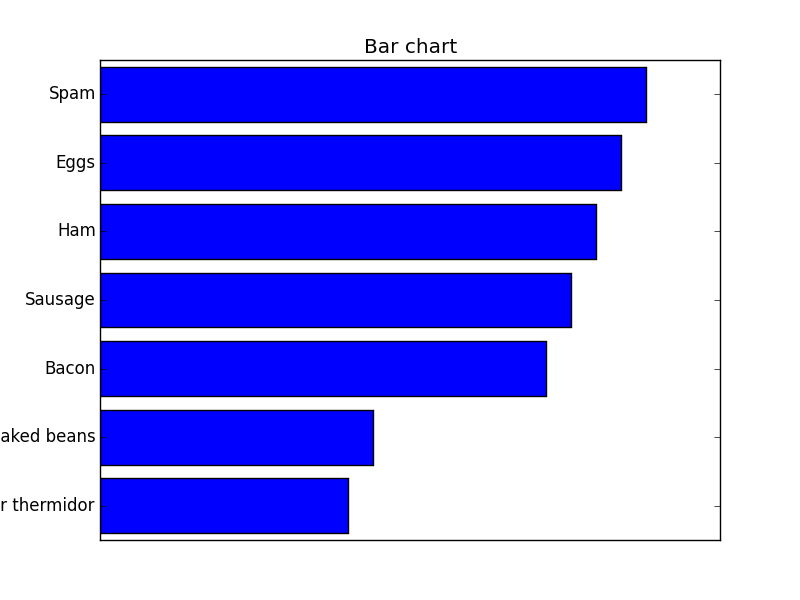
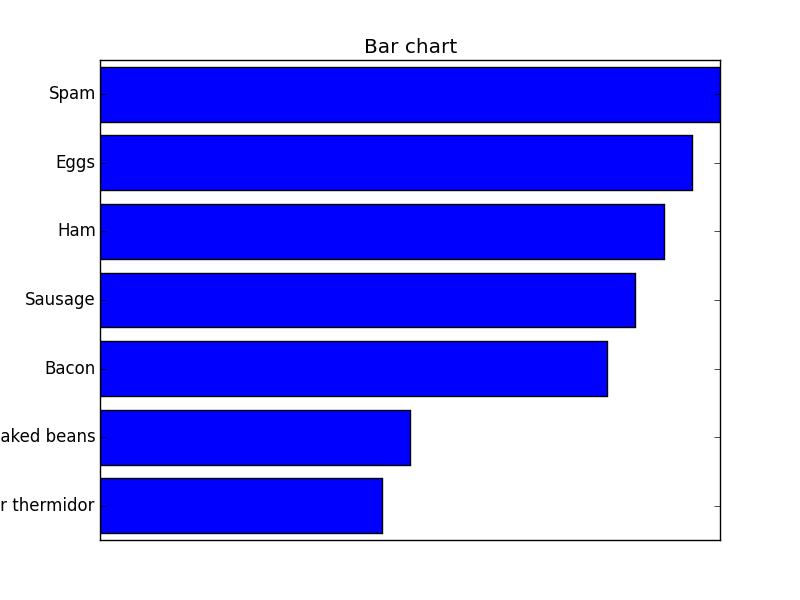
Made some of Jarvis edits to Data Visualization

Changed region(s): [[0.6562, 0.09, 0.9062, 0.69], [0.4062, 0.66, 0.5312, 0.9]]

diff --git a/Labs/ScientificVisualization/DataVisualization.tex b/Labs/ScientificVisualization/DataVisualization.tex
@@ -16,13 +16,13 @@ extract value from it.} \small{---Hal Varian (Google's Chief Economist)}
 
 
 
-\section*{What is data visualization?} 
+\section*{What is Data Visualization?} 
 Data visualizations (or graphs) are used to understand and explore data as well as communicate results to others.  Often data is more easily interpreted or understood in graphical format than as a list of numbers or data points.  
 
 
 
 
-\section*{Types of visualizations}
+\section*{Types of Visualizations}
 
 Here are some of the most useful types of data visualizations.  We explain each of these in more detail below.
 
@@ -713,11 +713,11 @@ The first step in creating a graphic to do this is to choose the right type of v
 As we saw in the section ``Types of Visualizations,'' there are many possibilities, each with different strengths. 
 You should carefully consider which one best suits your data set and communication needs.  Your goal should always be communicating as clearly, effectively, and accurately as possible.  
 
-\subsubsection*{Visualizations to avoid}
+\subsubsection*{Visualizations to Avoid: Pie Charts, Radar Charts, and Stacked Bar Charts}
 There are also several popular types of visualizations that you should generally \textbf{not} use.  These may look pretty, but they tend to obscure information or cause confusion because of natural difficulties humans have in interpreting them.
 
 For example, people have much more difficulty judging changes and variation in area than they do in length.  
-As a result, charts that depend on distinguishing variation in area will be less effective.  One of the most common charts that has this problem is the pie chart. Figure \ref{fig:pievsbar} indicates the difficulty in judging the difference in area between the lobster and bean slices.
+As a result, charts that depend on distinguishing variation in area will be less effective and easily misunderstood.  One of the most common charts that has this problem is the pie chart. Figure \ref{fig:pievsbar} indicates the difficulty in judging the difference in area between the lobster and bean slices.
 
 \begin{figure}
 \centering
@@ -729,26 +729,15 @@ As a result, charts that depend on distinguishing variation in area will be less
 \centering
 \includegraphics[width=\textwidth]{bar_chart_horizontal_sorted.png}
 \end{subfigure}
-\caption{A pie chart on the left that has been transformed into a bar chart on the right}
+\caption{A pie chart on the left that has been improved by a transformation into a bar chart on the right}
 \label{fig:pievsbar}
 \end{figure}
 
 
-As bad as the pie chart may be, there is a way to make things worse---make the chart three-dimensional.  It seems to be very popular for people to convert a visualization that is naturally 2 or 1 dimensional into one that is artificially three dimensional, but this inevitably makes things more confusing.  For example, we already have difficulty distinguishing the variation in area in a pie chart, and when we add a third dimension, it becomes even harder (see Figure \ref{fig:pie3d}.
-
-\begin{figure}
-\centering
-\begin{subfigure}{.45\textwidth}
-\centering
-\includegraphics[width=\textwidth]{pie_chart3d.png}
-\end{subfigure}
-\caption{A 3-D pie chart}
-\label{fig:pie3d}
-\end{figure}
+As bad as the pie chart may be, there is a way to make things worse---make the chart three-dimensional.  It seems to be very popular for people to convert a visualization that is naturally 2 or 1 dimensional into one that is artificially three dimensional, but this inevitably makes things more confusing.  For example, we already have difficulty distinguishing the variation in area in a pie chart, and when we add a third dimension, it becomes even harder to distinguish variation in volume.
 
 
-
-Other visualization types that tend to be confusing and ineffective include the stacked bar and the radar graph.  The radar graph is just generally confusing. One problem with stacking bars is that the second bar is not based at zero, so it becomes difficult to compare the different parts, as in Figure \ref{fig:stacked}
+Other visualization types that tend to be confusing and ineffective include the stacked bar and the radar graph.  The radar graph is just generally confusing. The main problem with stacking bars is that the second bar is not based at zero, so it becomes difficult to compare the different parts, as in Figure \ref{fig:stacked}
 
 \begin{figure}
 \centering
@@ -764,9 +753,6 @@ Other visualization types that tend to be confusing and ineffective include the 
 \label{fig:stacked}
 \end{figure}
 
-In these examples, differences in design give completely different impressions of the data, so the reality of the data is obscured rather than illuminated by the design.  As the famous visualization guru, Edward Tufte, says, ``Show data variation, not design variation.''  Pie charts and stacked bar charts show design variation more than data variation.
-
-
 \subsection*{Simplify}
 
 \noindent\emph{A sentence should contain no unnecessary words, a paragraph no unnecessary sentences for the same reason that a drawing should contain no unnecessary lines and a machine no unnecessary parts.} \small{---Strunk and White}
@@ -774,7 +760,7 @@ In these examples, differences in design give completely different impressions o
 
 Once you have chosen the visualization best suited to your data, you should design the details so that all elements contribute to the communication of data. 
 
-Edward Tufte offers two principles for simplifying graphics: (1) erase ink that does not communicate data, and (2) erase ink that communicates data redundantly.  (\cite{tufte2001} pp.96-100). According to these principles, decorative backgrounds, fancy lettering, and cute graphics in the corner of you plots should all be deleted.
+Data visualization guru, Edward Tufte, offers two principles for simplifying graphics: (1) erase ink that does not communicate data, and (2) erase ink that communicates data redundantly.  (\cite{tufte2001} pp.96-100). According to these principles, decorative backgrounds, fancy lettering, and cute graphics in the corner of your plots should all be deleted.
 
 Other opportunities for simplification are harder to notice and implement. As an example, let us examine the plot on the right of Figure \ref{fig:healthcare}. 
 This plot was created with the following code.
@@ -885,7 +871,7 @@ For example, one might wish to compare the first six Chebyshev polynomials.  It 
 \centering
   \includegraphics[width=\textwidth]{PoT_separate.png}
 \end{subfigure}
-\caption{Plotting on top and plotting separately comparison}
+\caption{Chebyshev polynomials together on the left and separately on the right. Notice that the legend is no longer needed for the right graph and it is easier to compare between Chebyshev polynomials because the graph isn't cluttered.}
 \label{fig:PoT}
 \end{figure}
 

diff --git a/Labs/ScientificVisualization/plots.py b/Labs/ScientificVisualization/plots.py
@@ -175,6 +175,31 @@ def log_plots():
     
     plt.savefig("log_plots.pdf")
     plt.close()
+
+# bar chart
+def barChart_horizontal_sorted(save=False):
+    # The slices will be ordered and plotted counter-clockwise.
+    labels = 'Spam', 'Eggs', 'Ham', 'Sausage', 'Bacon', 'Baked beans','Lobster thermidor'
+    fracs = range(22,15,-1)
+    fracs[-1]=10
+    fracs[-2]=11
+    
+    val = fracs[::-1]    # the bar lengths
+    pos = np.arange(7)+.5    # the bar centers on the y axis
+
+    plt.figure(1)
+    plt.barh(pos,val, align='center')
+    plt.yticks(pos, labels[::-1])
+    plt.xticks([])
+    plt.title('More lobster or beans?')
+    plt.grid(False)
+    if(save==False):
+        plt.show()
+    else:
+        plt.title("Bar chart")
+        plt.gca().tight_layout()
+        plt.savefig("bar_chart_horizontal_sorted.png")
+        plt.close()
     
 if __name__ == "__main__":
     dog_plots()
